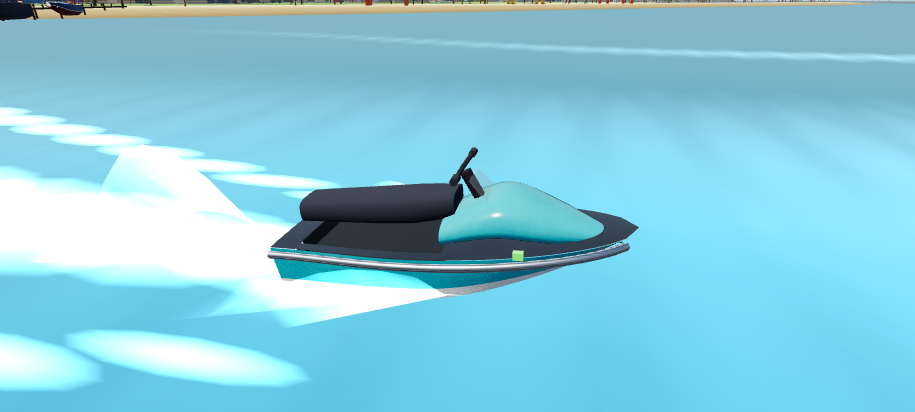
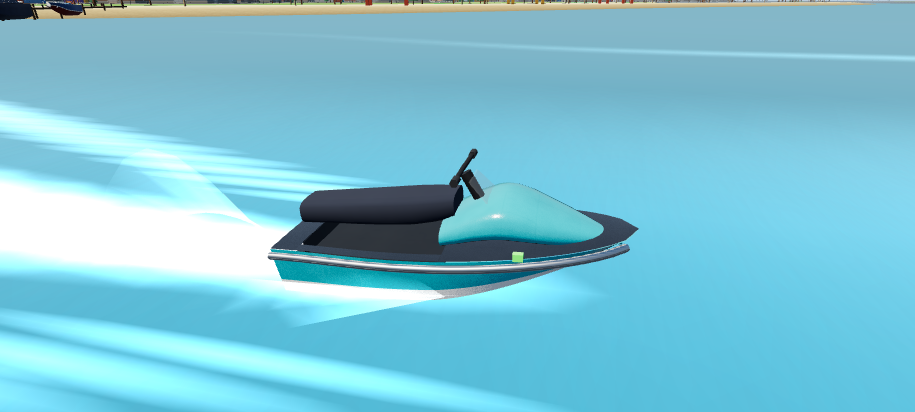
[wip] Save cops, explosions and missile work
Claude-Session: https://claude.ai/code/session_018iGo17mtLFKMHzBd1Cq3Kh

diff --git a/src/render/water.js b/src/render/water.js
@@ -233,7 +233,7 @@ export function createWakeTrail(scene, max = 160) {
         colors[i * 3] = colors[i * 3 + 1] = colors[i * 3 + 2] = 0;
       } else {
         const k = 1 - t;
-        const c = 0.2 * str[i] * k * k;
+        const c = 0.15 * str[i] * k * k;
         colors[i * 3] = c * 0.92;
         colors[i * 3 + 1] = c;
         colors[i * 3 + 2] = c;
